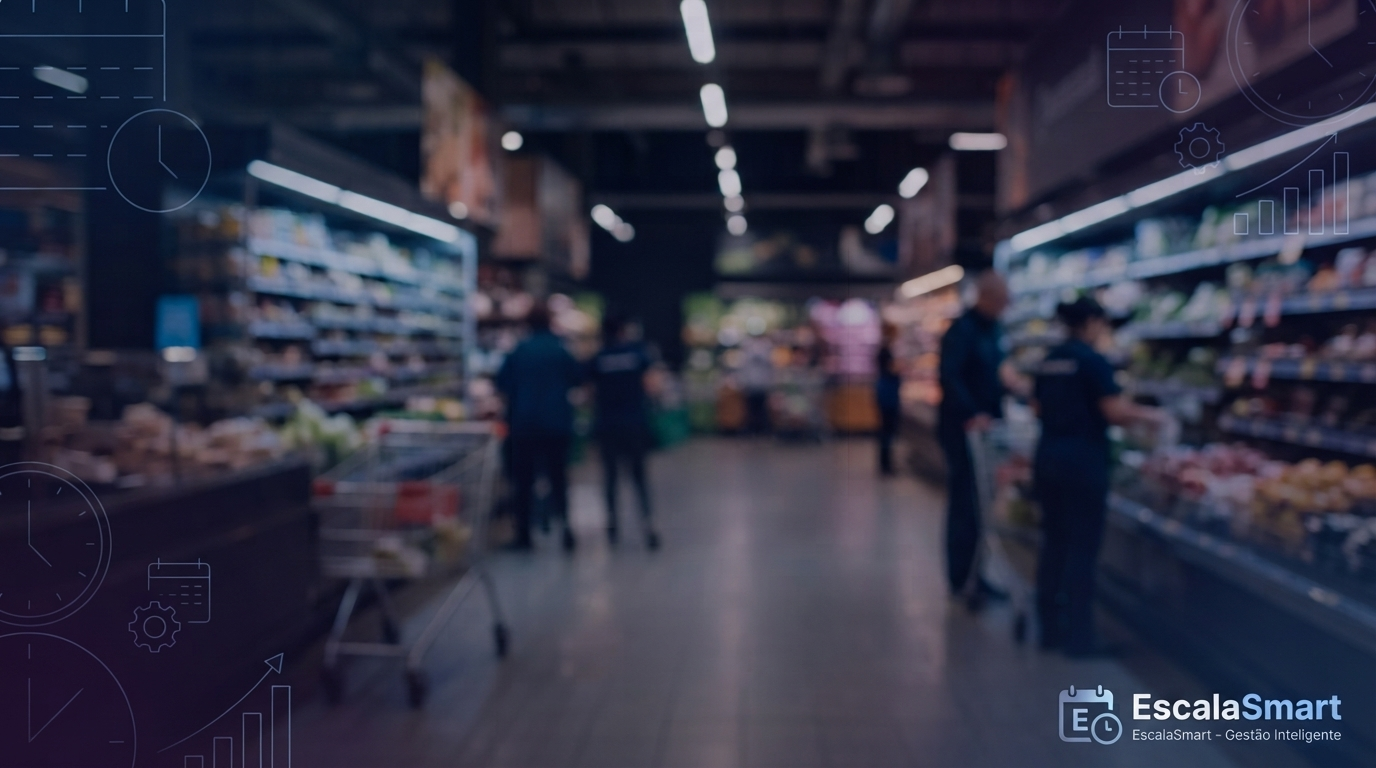
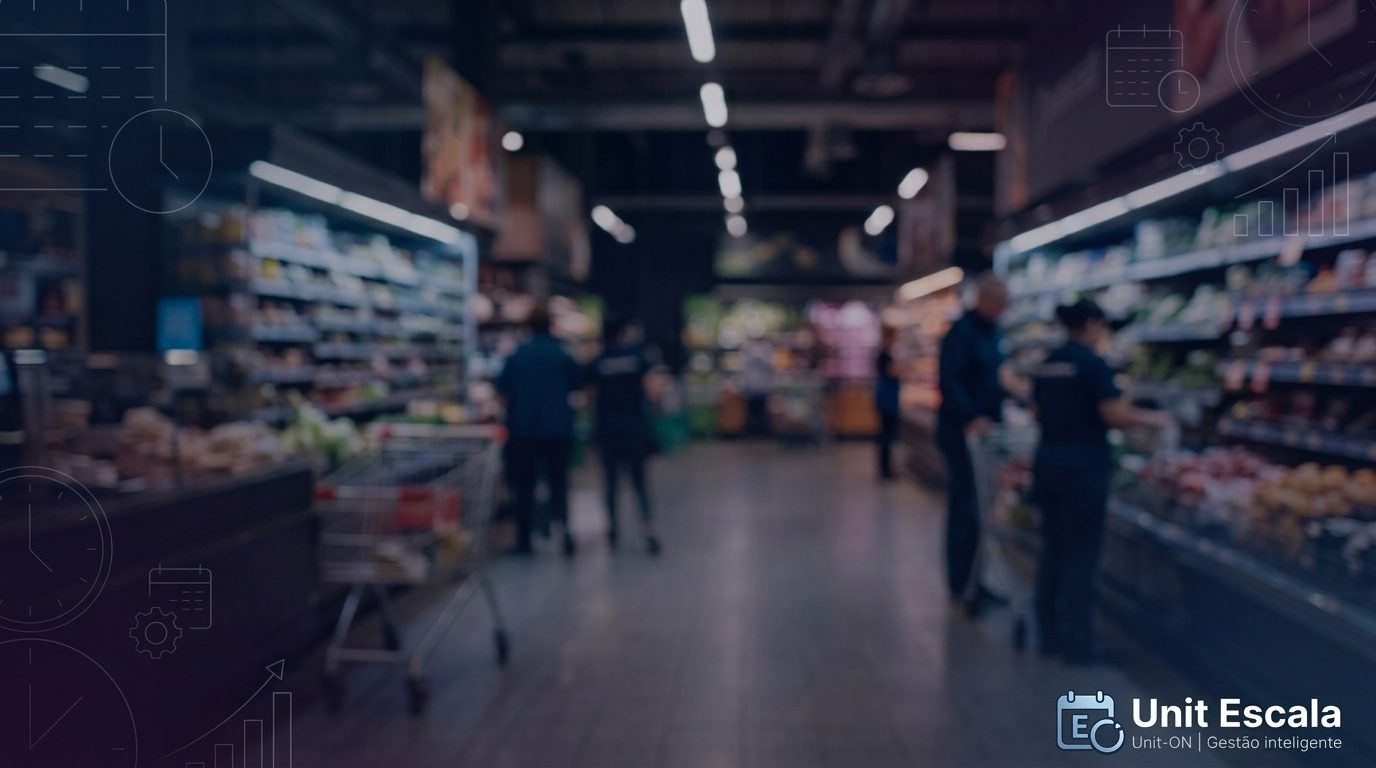
Marca: app passa a se chamar Unit Escala, com capa e ícone novos
- Login com capa nova: deitada a partir do tablet, em pé no celular
- Ícone novo no login, no menu lateral, na aba do navegador e ao instalar no celular (manifest)
- Título e descrição da página com o nome Unit Escala

diff --git a/frontend/public/index.html b/frontend/public/index.html
@@ -3,11 +3,16 @@
     <head>
         <meta charset="utf-8" />
         <meta name="viewport" content="width=device-width, initial-scale=1" />
-        <meta name="theme-color" content="#000000" />
-        <meta name="description" content="EscalaSmart: escala de folgas e horários da equipe." />
+        <meta name="theme-color" content="#17142E" />
+        <meta name="description" content="Unit Escala: escala de folgas e horários da equipe. Unit-ON | Gestão inteligente." />
         <link rel="preconnect" href="https://fonts.googleapis.com" />
         <link rel="preconnect" href="https://fonts.gstatic.com" crossorigin />
         <link href="https://fonts.googleapis.com/css2?family=Inter:wght@600&display=swap" rel="stylesheet" />
+        <link rel="icon" href="%PUBLIC_URL%/favicon.ico" sizes="any" />
+        <link rel="icon" type="image/png" sizes="192x192" href="%PUBLIC_URL%/icon-192.png" />
+        <link rel="apple-touch-icon" href="%PUBLIC_URL%/apple-touch-icon.png" />
+        <link rel="manifest" href="%PUBLIC_URL%/manifest.json" />
+        <meta name="apple-mobile-web-app-title" content="Unit Escala" />
         <!--
         manifest.json provides metadata used when your web app is installed on a
         user's mobile device or desktop. See https://developers.google.com/web/fundamentals/web-app-manifest/
@@ -21,7 +26,7 @@
         work correctly both with client-side routing and a non-root public URL.
         Learn how to configure a non-root public URL by running `npm run build`.
         -->
-        <title>EscalaSmart | Você no Controle</title>
+        <title>Unit Escala | Gestão inteligente</title>
     </head>
     <body>
         <noscript>You need to enable JavaScript to run this app.</noscript>

diff --git a/frontend/src/components/LoginGate.jsx b/frontend/src/components/LoginGate.jsx
@@ -55,13 +55,14 @@ export function LoginGate({ children }) {
   if (!authenticated) {
     return (
       <main
-        className="min-h-screen grid place-items-center bg-[#17142E] bg-cover bg-center md:bg-right-bottom px-4"
-        style={{ backgroundImage: `url(${process.env.PUBLIC_URL}/login-bg.jpg)` }}
+        // Capa: versão em pé no celular e deitada a partir do tablet (a marca fica no canto inferior direito)
+        className="login-bg min-h-screen grid place-items-center bg-[#17142E] bg-cover bg-right-bottom px-4"
+        style={{ "--bg-mobile": `url(${process.env.PUBLIC_URL}/login-bg-mobile.jpg)`, "--bg-wide": `url(${process.env.PUBLIC_URL}/login-bg.jpg)` }}
       >
         <form onSubmit={submit} className="w-full max-w-sm glass rounded-[26px] p-7 shadow-[0_24px_60px_-20px_rgba(0,0,0,0.6)]">
           <div className="mb-6 text-center">
-            <div className="mx-auto mb-3 grid h-12 w-12 place-items-center rounded-xl bg-[#17142E] text-xl text-white">F</div>
-            <h1 className="text-2xl font-bold text-[#1B1830]">EscalaSmart</h1>
+            <img src={`${process.env.PUBLIC_URL}/logo-96.png`} alt="" width="48" height="48" className="mx-auto mb-3 h-12 w-12 rounded-xl" />
+            <h1 className="text-2xl font-bold text-[#1B1830]">Unit Escala</h1>
             <p className="mt-2 text-sm text-[#5E5880]">Digite a senha de acesso para continuar.</p>
           </div>
           <label htmlFor="access-password" className="mb-2 block text-sm font-medium text-[#1B1830]">Senha</label>

diff --git a/frontend/src/components/folga/AppRail.jsx b/frontend/src/components/folga/AppRail.jsx
@@ -58,7 +58,7 @@ export const AppRail = ({ tab, onTab, onLogout, sectorTabs = [] }) => {
   return (
     <>
       <nav aria-label="Menu principal" className="no-print hidden md:flex sticky top-6 z-20 w-[76px] shrink-0 flex-col items-center gap-1.5 self-start rounded-[38px] bg-[#17142E] py-[18px] min-h-[640px]">
-        <div className="mb-3.5 grid h-11 w-11 place-items-center rounded-[14px] bg-white font-display text-[15px] font-bold text-[#17142E]">ES</div>
+        <img src={`${process.env.PUBLIC_URL}/logo-96.png`} alt="Unit Escala" title="Unit Escala" width="44" height="44" className="mb-3.5 h-11 w-11 rounded-[14px]" />
         {MAIN_TABS.map((t) => railButton(t))}
         {sectors.length > 0 && (
           <>

diff --git a/frontend/src/App.css b/frontend/src/App.css
@@ -52,3 +52,7 @@ body, .App { font-family: Inter, system-ui, sans-serif; background: #F3F1FA; col
 .rail-scroll::-webkit-scrollbar { width: 4px; }
 .rail-scroll::-webkit-scrollbar-thumb { background: rgba(183, 177, 214, 0.45); border-radius: 4px; }
 .rail-scroll::-webkit-scrollbar-track { background: transparent; }
+
+/* Capa do login: em pé no celular, deitada a partir de 768px */
+.login-bg { background-image: var(--bg-mobile); }
+@media (min-width: 768px) { .login-bg { background-image: var(--bg-wide); } }
